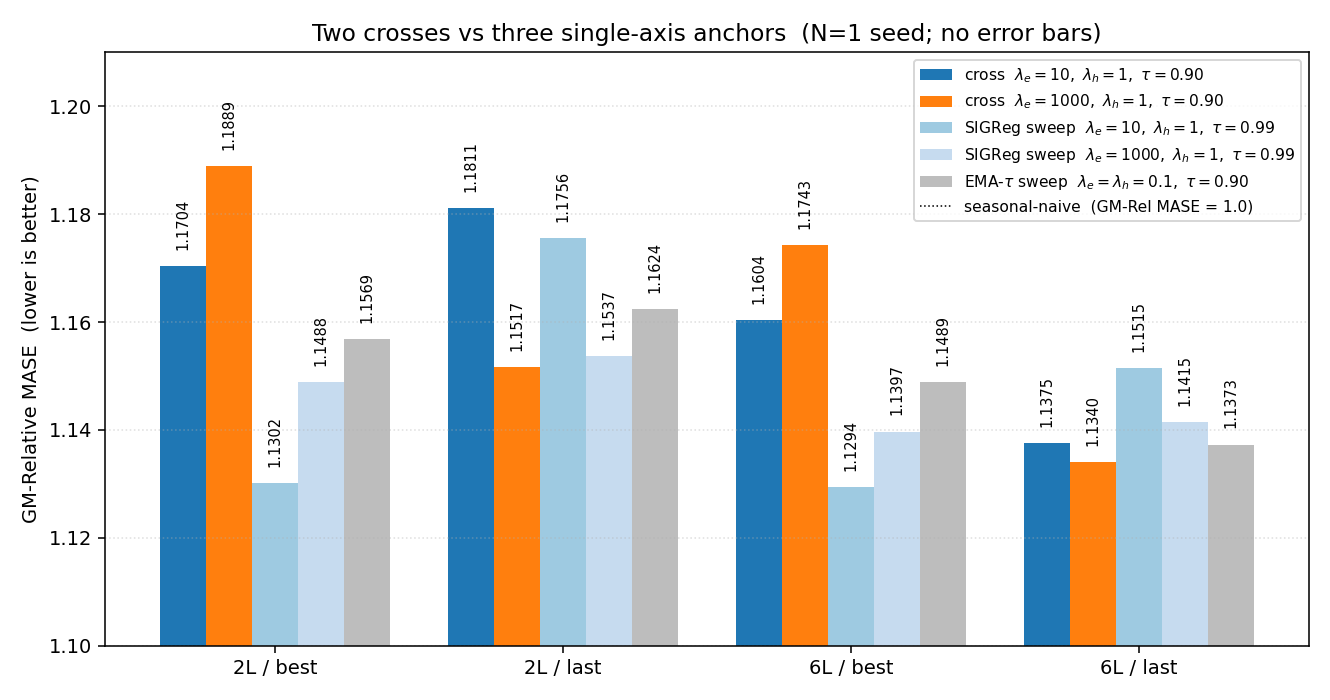
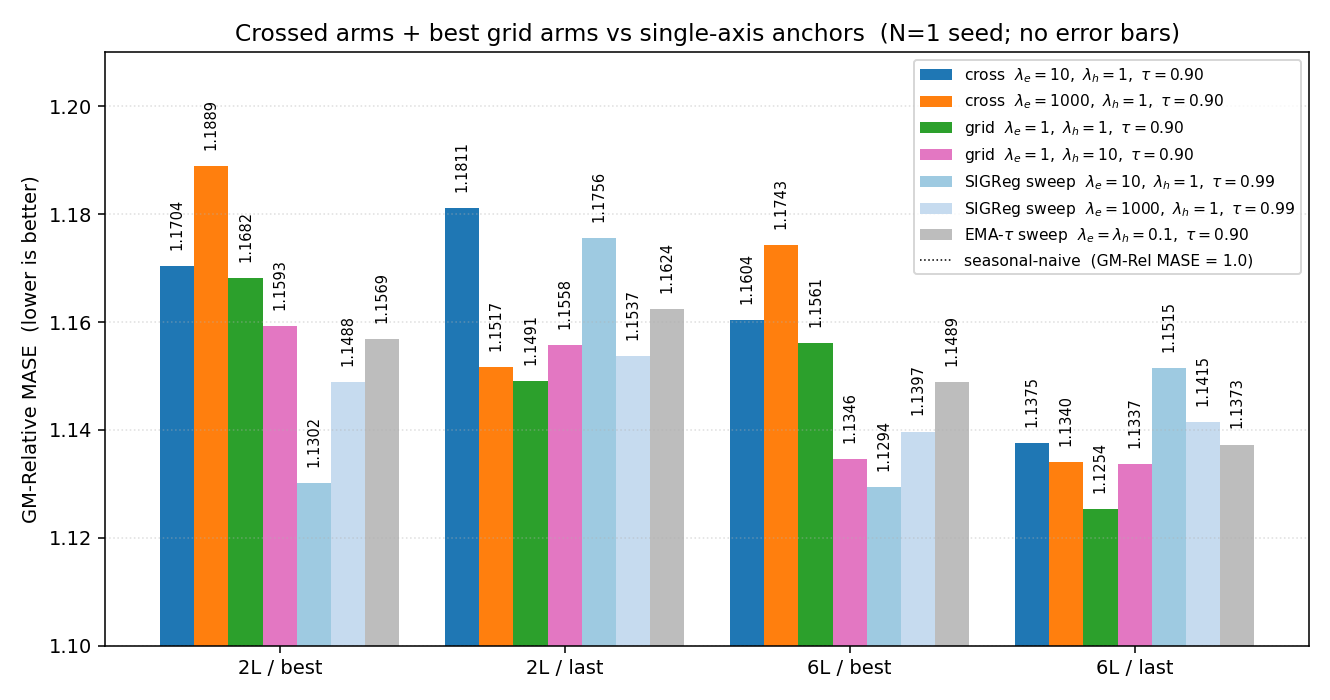
report(#366): recompute headline over the full 48-cell table — every GM global minimum is now a λ_e=1 grid cell
Review against REPORT_STANDARD found the headline inverted by the grid
extension (pitfall §4.2): the title claimed all four global minima sit
on single-axis anchors, but with arms C-I in gm_table.csv the minima
are arm C (λ=1,1: Rel-MASE 1.1254, raw MASE 1.5732, CRPS_SN 0.8495)
and arm H (λ=1,10: MAPE_SN 1.0568) — margins 0.08-0.47 % over the best
anchor cell, inside the single-seed noise band.

- Title, Answer, and headline table recomputed over 48 cells (12 arms);
  margins-to-runner-up added per aggregate.
- Arms table lists all 12 arms.
- Stale counts fixed: twenty→forty-eight configurations, seven→ten grid
  cells, five→seven arms in bar-chart captions.
- False absolute removed ("every anchor below every cross at best")
  — arm H 6L/best 1.1346 undercuts two anchors.
- Winner arms C and H added to the headline and four-aggregate bar
  charts so the global-minimum cells are visible (pitfall §4.5).
- Four-aggregates prose replaced with the verified 16-group-minima
  split: crossed arms 0/16; best groups 7/8 anchor + 1/8 arm H;
  last groups 6/8 arm C + 2/8 anchor.
- Caveat updated with the four global-minimum margins.

Claude-Session: https://claude.ai/code/session_01Th9HQZkNmqHrm8YpSQ83S3

diff --git a/reports/2026-06-28_sigreg_lambda_tau_cross/plots/_make_plots.py b/reports/2026-06-28_sigreg_lambda_tau_cross/plots/_make_plots.py
@@ -40,6 +40,8 @@ A357 = "anchor_357_tau090"
 ARMS = [
     (CROSS_A,    r"cross  $\lambda_e{=}10,\ \lambda_h{=}1,\ \tau{=}0.90$",       "#1f77b4"),
     (CROSS_B,    r"cross  $\lambda_e{=}1000,\ \lambda_h{=}1,\ \tau{=}0.90$",     "#ff7f0e"),
+    (CROSS_C,    r"grid  $\lambda_e{=}1,\ \lambda_h{=}1,\ \tau{=}0.90$",         "#2ca02c"),
+    (CROSS_H,    r"grid  $\lambda_e{=}1,\ \lambda_h{=}10,\ \tau{=}0.90$",        "#e377c2"),
     (A363_E100,  r"SIGReg sweep  $\lambda_e{=}10,\ \lambda_h{=}1,\ \tau{=}0.99$", "#9ecae1"),
     (A363_E10000,r"SIGReg sweep  $\lambda_e{=}1000,\ \lambda_h{=}1,\ \tau{=}0.99$","#c6dbef"),
     (A357,       r"EMA-$\tau$ sweep  $\lambda_e{=}\lambda_h{=}0.1,\ \tau{=}0.90$","#bdbdbd"),
@@ -57,7 +59,7 @@ ANCHOR_LABEL_SHORT = {
 def headline():
     fig, ax = plt.subplots(figsize=(9.5, 5.0))
     x = np.arange(len(GROUPS))
-    width = 0.16
+    width = 0.12
     for i, (arm, label, colour) in enumerate(ARMS):
         vals = [cell(arm, h, c) for h, c in GROUPS]
         offset = (i - (len(ARMS) - 1) / 2) * width
@@ -70,7 +72,7 @@ def headline():
     ax.set_xticklabels([f"{h} / {c}" for h, c in GROUPS])
     ax.set_ylabel("GM-Relative MASE  (lower is better)")
     ax.set_ylim(1.10, 1.21)
-    ax.set_title("Two crosses vs three single-axis anchors  (N=1 seed; no error bars)")
+    ax.set_title("Crossed arms + best grid arms vs single-axis anchors  (N=1 seed; no error bars)")
     handles, labels = ax.get_legend_handles_labels()
     handles.append(sn_line)
     labels.append("seasonal-naive  (GM-Rel MASE = 1.0)")
@@ -90,7 +92,7 @@ def four_metric():
     ]
     fig, axes = plt.subplots(2, 2, figsize=(11.5, 7.5))
     x = np.arange(len(GROUPS))
-    width = 0.16
+    width = 0.12
     for ax, (col, title) in zip(axes.ravel(), metrics):
         for i, (arm, label, colour) in enumerate(ARMS):
             vals = [cell(arm, h, c, col=col) for h, c in GROUPS]
@@ -107,7 +109,7 @@ def four_metric():
     handles, labels = axes[0, 0].get_legend_handles_labels()
     fig.legend(handles, labels, loc="lower center", ncol=3, fontsize=8.5,
                bbox_to_anchor=(0.5, -0.01))
-    fig.suptitle("Four GM aggregates — two crosses vs three anchors", y=0.99)
+    fig.suptitle("Four GM aggregates — crossed and best grid arms vs anchors", y=0.99)
     fig.tight_layout(rect=(0, 0.06, 1, 0.97))
     fig.savefig(HERE / "four_aggregates.png", dpi=140)
     plt.close(fig)
@@ -162,8 +164,8 @@ def cross_vs_best_anchor():
 def lambda_grid_tau090():
     """Per (head × ckpt) cell, a (λ_e, λ_h) heatmap restricted to τ=0.90 runs.
 
-    Only three cells have been measured at τ=0.90 — `λ_e=λ_h=0.1` (the EMA-τ
-    sweep anchor) and the two crosses `λ_e=10, λ_h=1` and `λ_e=1000, λ_h=1`.
+    Ten measured cells: the EMA-τ-sweep anchor at (0.1, 0.1) plus nine
+    arms A-I covering the λ_h=1 row, the λ_h=10 row and the diagonal.
     Unmeasured cells are hatched. Colour is GM-Relative MASE.
     """
     lam_e = [0.1, 1.0, 10.0, 100.0, 1000.0]

diff --git a/reports/2026-06-28_sigreg_lambda_tau_cross/sigreg_lambda_tau_cross.md b/reports/2026-06-28_sigreg_lambda_tau_cross/sigreg_lambda_tau_cross.md
@@ -1,46 +1,56 @@
-# Crossing the SIGReg λ and EMA-τ single-axis winners: the global-best cell on all four GM aggregates is a single-axis anchor, not a cross arm
+# Crossing the SIGReg λ and EMA-τ winners does not compound; a nine-arm (λ_e, λ_h) grid at τ=0.90 moves every GM global minimum to a λ_e=1 cell, within single-seed noise
 
 **Question.** SIGReg's per-term weights (`λ_e`, `λ_h`) and the EMA-teacher
 temperature `τ` were each tuned in isolation in prior work — a λ sweep
 chose `λ_e` at fixed `τ=0.99`, and a τ sweep chose `τ=0.90` at fixed
-`λ_e=λ_h=0.1`. Does pairing each axis's winner in a single run compound
-the gain, or does the new operating point sit between its single-axis
-parents?
+`λ_e=λ_h=0.1`. Two questions, answered in sequence: does pairing each
+axis's winner in a single run compound the gain? And, extending the two
+crossed arms to a nine-arm grid, where does the τ=0.90 optimum actually
+sit in the (λ_e, λ_h) plane?
 
-**Answer.** It does not compound. On all four GM aggregates the best cell
-is a single-axis anchor, not a cross arm.
+**Answer.** Crossing the winners does not compound: neither crossed arm
+(λ_e=10 or λ_e=1000, λ_h=1, τ=0.90) holds any of the four global
+minima. The grid instead moves every global minimum to a λ_e=1 cell at
+τ=0.90 — but each by a margin (0.08–0.47 %) inside the single-seed
+noise band.
 
-| GM aggregate | best cell | arm | head / ckpt |
-| --- | --: | --- | --- |
-| Rel-MASE         | **1.1294** | SIGReg sweep, λ_e=10  λ_h=1, τ=0.99   | 6L / best |
-| MASE (raw)       | **1.5788** | SIGReg sweep, λ_e=10  λ_h=1, τ=0.99   | 6L / best |
-| MAPE / SN_MAPE   | **1.0618** | SIGReg sweep, λ_e=10  λ_h=1, τ=0.99   | 6L / last |
-| CRPS / SN_CRPS   | **0.8502** | SIGReg sweep, λ_e=1000 λ_h=1, τ=0.99 | 2L / last |
+| GM aggregate | best cell | arm | head / ckpt | margin over best other arm |
+| --- | --: | --- | --- | --- |
+| Rel-MASE         | **1.1254** | grid, λ_e=1 λ_h=1, τ=0.90  | 6L / last | 0.35 % (1.1294, SIGReg sweep λ_e=10, 6L/best) |
+| MASE (raw)       | **1.5732** | grid, λ_e=1 λ_h=1, τ=0.90  | 6L / last | 0.35 % (1.5788, SIGReg sweep λ_e=10, 6L/best) |
+| MAPE / SN_MAPE   | **1.0568** | grid, λ_e=1 λ_h=10, τ=0.90 | 6L / best | 0.47 % (1.0618, SIGReg sweep λ_e=10, 6L/last) |
+| CRPS / SN_CRPS   | **0.8495** | grid, λ_e=1 λ_h=1, τ=0.90  | 6L / last | 0.08 % (0.8502, SIGReg sweep λ_e=1000, 2L/last) |
 
 *GM-Relative MASE: geometric mean over GIFT-Eval's 97 tasks of model MASE
 divided by seasonal-naive MASE. Lower is better; 1.0 = seasonal-naive.
 The other three are the analogous geometric means of raw MASE, of
 MAPE / SN_MAPE, and of mean-weighted-sum-quantile-loss / SN_CRPS. Each
-"best cell" is the global minimum across all twenty
-(2 head depths × 2 ckpts × 5 arms) configurations for that aggregate.*
+"best cell" is the global minimum across all forty-eight
+(2 head depths × 2 ckpts × 12 arms) configurations for that aggregate.*
 
-Within the two `best`-checkpoint groups every single-axis anchor sits
-below every cross bar; within the two `last`-checkpoint groups the
-`λ_e=1000` cross sits below every anchor by ≤ 0.3 % of the best anchor
-in that group.
+At the two `best`-checkpoint groups the lowest Rel-MASE cell is the
+τ=0.99 SIGReg-sweep anchor; at the two `last`-checkpoint groups it is
+the grid's (λ_e=1, λ_h=1) arm.
 
-![Grouped-bar chart: GM-Relative MASE per (head depth × checkpoint) group, five
-arms per group — two cross arms (τ=0.90) and three single-axis anchors
-(τ=0.99 at λ_e=10, τ=0.99 at λ_e=1000, τ=0.90 at λ_e=λ_h=0.1). Horizontal
-dotted line at GM-Rel MASE = 1.0 marks the seasonal-naive
-baseline.](plots/headline_relmase.png)
+![Grouped-bar chart: GM-Relative MASE per (head depth × checkpoint)
+group, seven arms per group — the two crossed arms, the two best grid
+arms (λ_e=1 λ_h=1 and λ_e=1 λ_h=10, both τ=0.90) and three single-axis
+anchors. Horizontal dotted line at GM-Rel MASE = 1.0 marks the
+seasonal-naive baseline.](plots/headline_relmase.png)
 
 ## Arms
 
 | arm                                              | λ_e   | λ_h | τ    | provenance |
 | ---                                              | --:   | --: | --:  | --- |
-| **cross, λ_e=10 λ_h=1, τ=0.90**                  | 10    | 1   | 0.90 | λ pair = prior λ-sweep best-at-best; τ = prior τ-sweep winner |
-| **cross, λ_e=1000 λ_h=1, τ=0.90**                | 1000  | 1   | 0.90 | λ pair = prior λ-sweep best-at-last; τ = prior τ-sweep winner |
+| **arm A (crossed winners)**                      | 10    | 1   | 0.90 | λ pair = prior λ-sweep best-at-best; τ = prior τ-sweep winner |
+| **arm B (crossed winners)**                      | 1000  | 1   | 0.90 | λ pair = prior λ-sweep best-at-last; τ = prior τ-sweep winner |
+| arm C (grid)                                     | 1     | 1   | 0.90 | grid extension |
+| arm D (grid)                                     | 10    | 10  | 0.90 | grid extension |
+| arm E (grid)                                     | 100   | 100 | 0.90 | grid extension |
+| arm F (grid)                                     | 1000  | 1000| 0.90 | grid extension |
+| arm G (grid)                                     | 100   | 10  | 0.90 | grid extension |
+| arm H (grid)                                     | 1     | 10  | 0.90 | grid extension |
+| arm I (grid)                                     | 100   | 1   | 0.90 | grid extension |
 | SIGReg sweep, λ_e=10 λ_h=1, τ=0.99               | 10    | 1   | 0.99 | prior λ-sweep best-at-best (its native τ) |
 | SIGReg sweep, λ_e=1000 λ_h=1, τ=0.99             | 1000  | 1   | 0.99 | prior λ-sweep best-at-last (its native τ) |
 | EMA-τ sweep, λ_e=λ_h=0.1, τ=0.90                 | 0.1   | 0.1 | 0.90 | prior τ-sweep winner (its native λ pair) |
@@ -74,33 +84,34 @@ group.](plots/cross_vs_best_anchor.png)
 
 ## Four aggregates
 
-The same five arms scored on the other three GM aggregates — raw MASE,
-MAPE / SN_MAPE, CRPS / SN_CRPS — keep the same ordering at the
-`best`-checkpoint groups (a single-axis anchor wins each). On the
-`last`-checkpoint groups the `λ_e=1000` cross is the lowest cell on
-Rel-MASE and on raw MASE, but loses both `last` groups on MAPE_SN and
-on CRPS_SN.
+The two crossed arms hold none of the sixteen (aggregate × head × ckpt)
+group minima. At the `best`-checkpoint groups the τ=0.99 SIGReg-sweep
+anchor holds seven of eight — the grid's (1, 10) arm takes MAPE_SN at
+6L. At the `last`-checkpoint groups the grid's (1, 1) arm holds six of
+eight — the τ=0.99 anchors keep MAPE_SN at 6L and CRPS_SN at 2L.
 
 ![Four-panel grouped-bar chart: GM-Relative MASE (top-left), raw GM-MASE
 (top-right), GM-MAPE / SN_MAPE (bottom-left), GM-CRPS / SN_CRPS
-(bottom-right). Five arms per (head × checkpoint) group, same colour
+(bottom-right). Seven arms per (head × checkpoint) group, same colour
 coding as the headline figure.](plots/four_aggregates.png)
 
 ## (λ_e, λ_h) grid at τ=0.90
 
 The same headline GM-Relative MASE plotted as a (λ_e, λ_h) heatmap
-restricted to the τ=0.90 runs. Seven cells are measured — the EMA-τ-sweep
-anchor at (λ_e=λ_h=0.1) plus six additional arms filling the grid at
-(1, 1), (10, 1), (10, 10), (100, 100), (1000, 1) and (1000, 1000).
-Hatched cells are not run.
+restricted to the τ=0.90 runs. Ten cells are measured — the EMA-τ-sweep
+anchor at (λ_e=λ_h=0.1) plus the nine arms at (1, 1), (1, 10), (10, 1),
+(10, 10), (100, 1), (100, 10), (100, 100), (1000, 1) and (1000, 1000).
+Hatched cells are not run. Performance degrades from the (1, 1) corner
+toward large λ on both axes; the (1000, 1000) arm holds the worst cell
+of the whole experiment on every aggregate.
 
 ![2×2 grid: (λ_e, λ_h) heatmap of GM-Relative MASE, one panel per
-(head × checkpoint) group. Seven filled cells; the rest hatched.
+(head × checkpoint) group. Ten filled cells; the rest hatched.
 Blue = better, red = worse.](plots/lambda_grid_tau090.png)
 
 ## (last − best) drift per grid cell
 
-Same seven cells, plotted as the checkpoint drift `GM-Rel MASE(last) −
+Same ten cells, plotted as the checkpoint drift `GM-Rel MASE(last) −
 GM-Rel MASE(best)`, one panel per q-head depth. Negative (blue) means the
 `last` checkpoint improved on the `best` checkpoint after the extra
 training steps; positive (red) means it regressed.
@@ -118,14 +129,17 @@ SIGReg with per-term weights `λ_e` (embedding) and `λ_h` (encoding) on
 the student. Each scored cell freezes the backbone, trains a fresh
 quantile head (2L or 6L) at the same step budget, and evaluates on
 GIFT-Eval's 97 tasks at `best-loss` and at `last` (step 12,500). Two
-ckpts × two head depths × five arms = 20 GIFT-Eval cells; the cross arms
-contribute eight of them, the three anchors contribute the other twelve.
+ckpts × two head depths × twelve arms = 48 GIFT-Eval cells; the two
+crossed arms contribute eight, the seven grid-extension arms twenty-eight,
+and the three anchors twelve.
 GM aggregates are computed by `scripts/_compute_gm.py` against the
 seasonal-naive `all_results.csv` from `~/workspaces/gift-eval/results/`.
 
 ## Caveat — single seed
 
-Each cell is `N=1`. The two `last`-checkpoint cross-vs-anchor deltas
-sit inside the within-arm best→last band reported above, so a
-multi-seed replicate that cleared the band would be required to claim
-either as a win.
+Each cell is `N=1`. The four global-minimum margins in the headline
+table (0.35 %, 0.35 %, 0.47 %, 0.08 %) and the two crossed-arm deltas
+above all sit inside the **−3.4 % to +0.9 %** within-arm best→last band
+measured on the same data (`results/notes.md`), so a multi-seed
+replicate that cleared the band would be required to claim any of them
+as a win.
